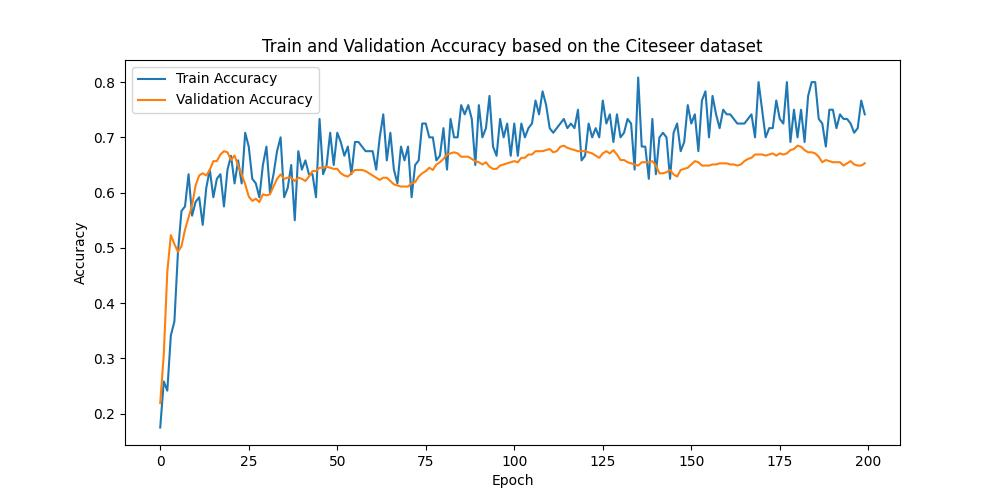
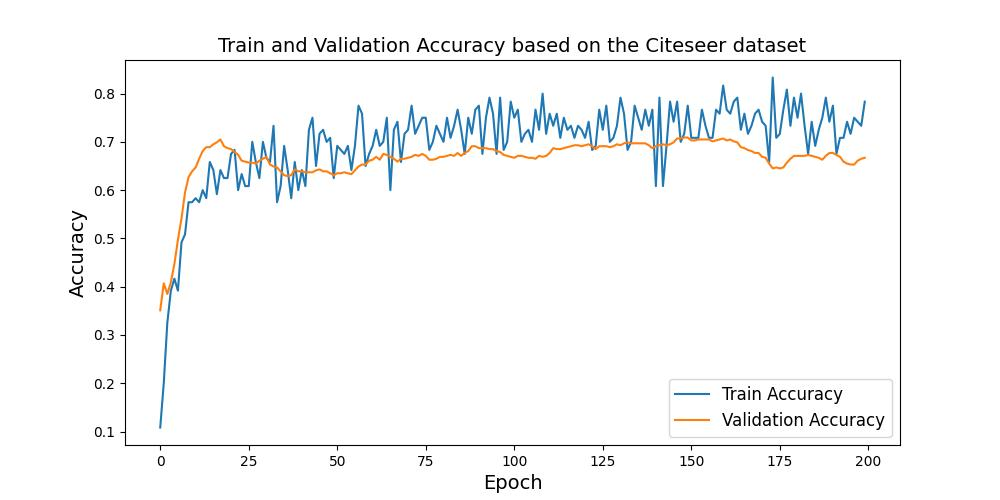
Add files via upload

diff --git a/ACHGCN-Citeseer.py b/ACHGCN-Citeseer.py
@@ -92,10 +92,10 @@ for epoch in range(200):
 plt.figure(figsize=(10, 5))
 plt.plot(train_accuracies, label='Train Accuracy')
 plt.plot(val_accuracies, label='Validation Accuracy')
-plt.xlabel('Epoch')
-plt.ylabel('Accuracy')
-plt.title('Train and Validation Accuracy based on the Citeseer dataset')
-plt.legend()
+plt.xlabel('Epoch', fontsize=14)
+plt.ylabel('Accuracy', fontsize=14)
+plt.title('Train and Validation Accuracy based on the Citeseer dataset', fontsize=14)
+plt.legend(fontsize='large')
 plt.savefig('Training and Validation Accuracy based on the Citeseer dataset.jpg')  # 保存图像
 plt.show()
 
@@ -113,10 +113,10 @@ def plot_tsne(embeddings, labels, title='t-SNE'):
     for label in np.unique(labels):
         indices = labels == label
         plt.scatter(embeddings_2d[indices, 0], embeddings_2d[indices, 1], label=class_names[label], s=10)
-    plt.legend()
-    plt.xlabel('x')
-    plt.ylabel('y')
-    plt.title(title)
+    plt.legend(fontsize='large')
+    plt.xlabel('x', fontsize=14)
+    plt.ylabel('y', fontsize=14)
+    plt.title(title, fontsize=14)
     plt.savefig(title + '.jpg')  # 保存图像
     plt.show()
 

diff --git a/ACHGCN-Pubmed.py b/ACHGCN-Pubmed.py
@@ -94,10 +94,10 @@ for epoch in range(200):
 plt.figure(figsize=(10, 5))
 plt.plot(train_accuracies, label='Train Accuracy')
 plt.plot(val_accuracies, label='Validation Accuracy')
-plt.xlabel('Epoch')
-plt.ylabel('Accuracy')
-plt.title('Train and Validation Accuracy based on the Pubmed dataset')
-plt.legend()
+plt.xlabel('Epoch', fontsize=14)
+plt.ylabel('Accuracy', fontsize=14)
+plt.title('Train and Validation Accuracy based on the Pubmed dataset', fontsize=14)
+plt.legend(fontsize='large')
 plt.savefig('Training and Validation Accuracy based on the Pubmed dataset.jpg')  # 保存图像
 plt.show()
 
@@ -113,10 +113,10 @@ def plot_tsne(embeddings, labels, title='t-SNE'):
     for label in np.unique(labels):
         indices = labels == label
         plt.scatter(embeddings_2d[indices, 0], embeddings_2d[indices, 1], label=class_names[label], s=10)
-    plt.legend()
-    plt.xlabel('x')
-    plt.ylabel('y')
-    plt.title(title)
+    plt.legend(fontsize='large')
+    plt.xlabel('x', fontsize=14)
+    plt.ylabel('y', fontsize=14)
+    plt.title(title, fontsize=14)
     plt.savefig(title + '.jpg')  # 保存图像
     plt.show()
 

diff --git a/ACHGCN-cora.py b/ACHGCN-cora.py
@@ -92,10 +92,10 @@ for epoch in range(200):
 plt.figure(figsize=(10, 5))
 plt.plot(train_accuracies, label='Train Accuracy')
 plt.plot(val_accuracies, label='Validation Accuracy')
-plt.xlabel('Epoch')
-plt.ylabel('Accuracy')
-plt.title('Train and Validation Accuracy')
-plt.legend()
+plt.xlabel('Epoch', fontsize=14)
+plt.ylabel('Accuracy', fontsize=14)
+plt.title('Train and Validation Accuracy', fontsize=14)
+plt.legend(fontsize='large')
 plt.savefig('Training and Validation Accuracy based on the Cora dataset.jpg')  # 保存图像
 plt.show()
 
@@ -112,10 +112,10 @@ def plot_tsne(embeddings, labels, title='t-SNE'):
     for label in np.unique(labels):
         indices = labels == label
         plt.scatter(embeddings_2d[indices, 0], embeddings_2d[indices, 1], label=class_names[label], s=10)
-    plt.legend()
-    plt.xlabel('x')
-    plt.ylabel('y')
-    plt.title(title)
+    plt.legend(fontsize='large')
+    plt.xlabel('x', fontsize=14)
+    plt.ylabel('y', fontsize=14)
+    plt.title(title, fontsize=14)
     plt.savefig(title + '.jpg')  # 保存图像
     plt.show()
 
